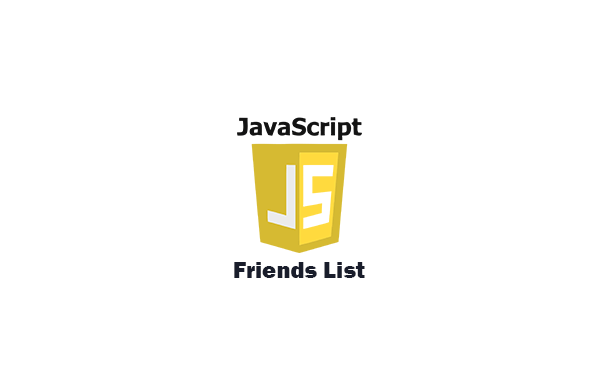
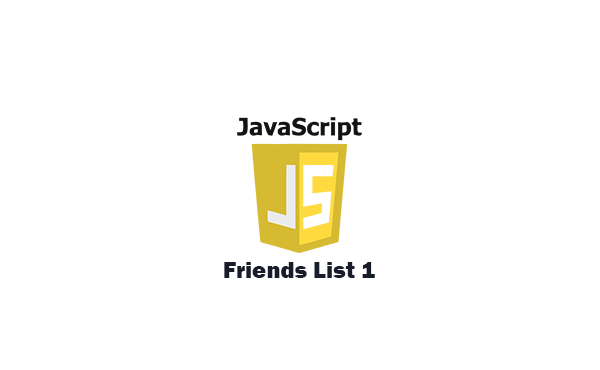
friends1

Changed region(s): [[0.36, 0.6838, 0.63, 0.773]]

diff --git a/index.html b/index.html
@@ -311,19 +311,18 @@
 
             <div class="portfolios">
 
-                
 
                 <div class="portfolio-item">
+                    
                     <div class="image">
                         <img src="img/friends.png" alt="">
+
                     </div>
                     <div class="hover-items">
-                        <h3>JavaScript - Friends List I and II</h3>
+                        <h3>Friends List 1</h3>
                         <div class="icons">
-                            <a href="https://github.com/jkiimala/kaverilista.git" target="_blank" class="icon">
-                                <i class="fab fa-google"></i>
-                            </a>
-                            
+                            <a href="https://github.com/jkiimala/kaverilista1.git" target="_blank" class="icon">
+                                <i class="fab fa-github"></i></a>
                         </div>
                     </div>
                 </div>
